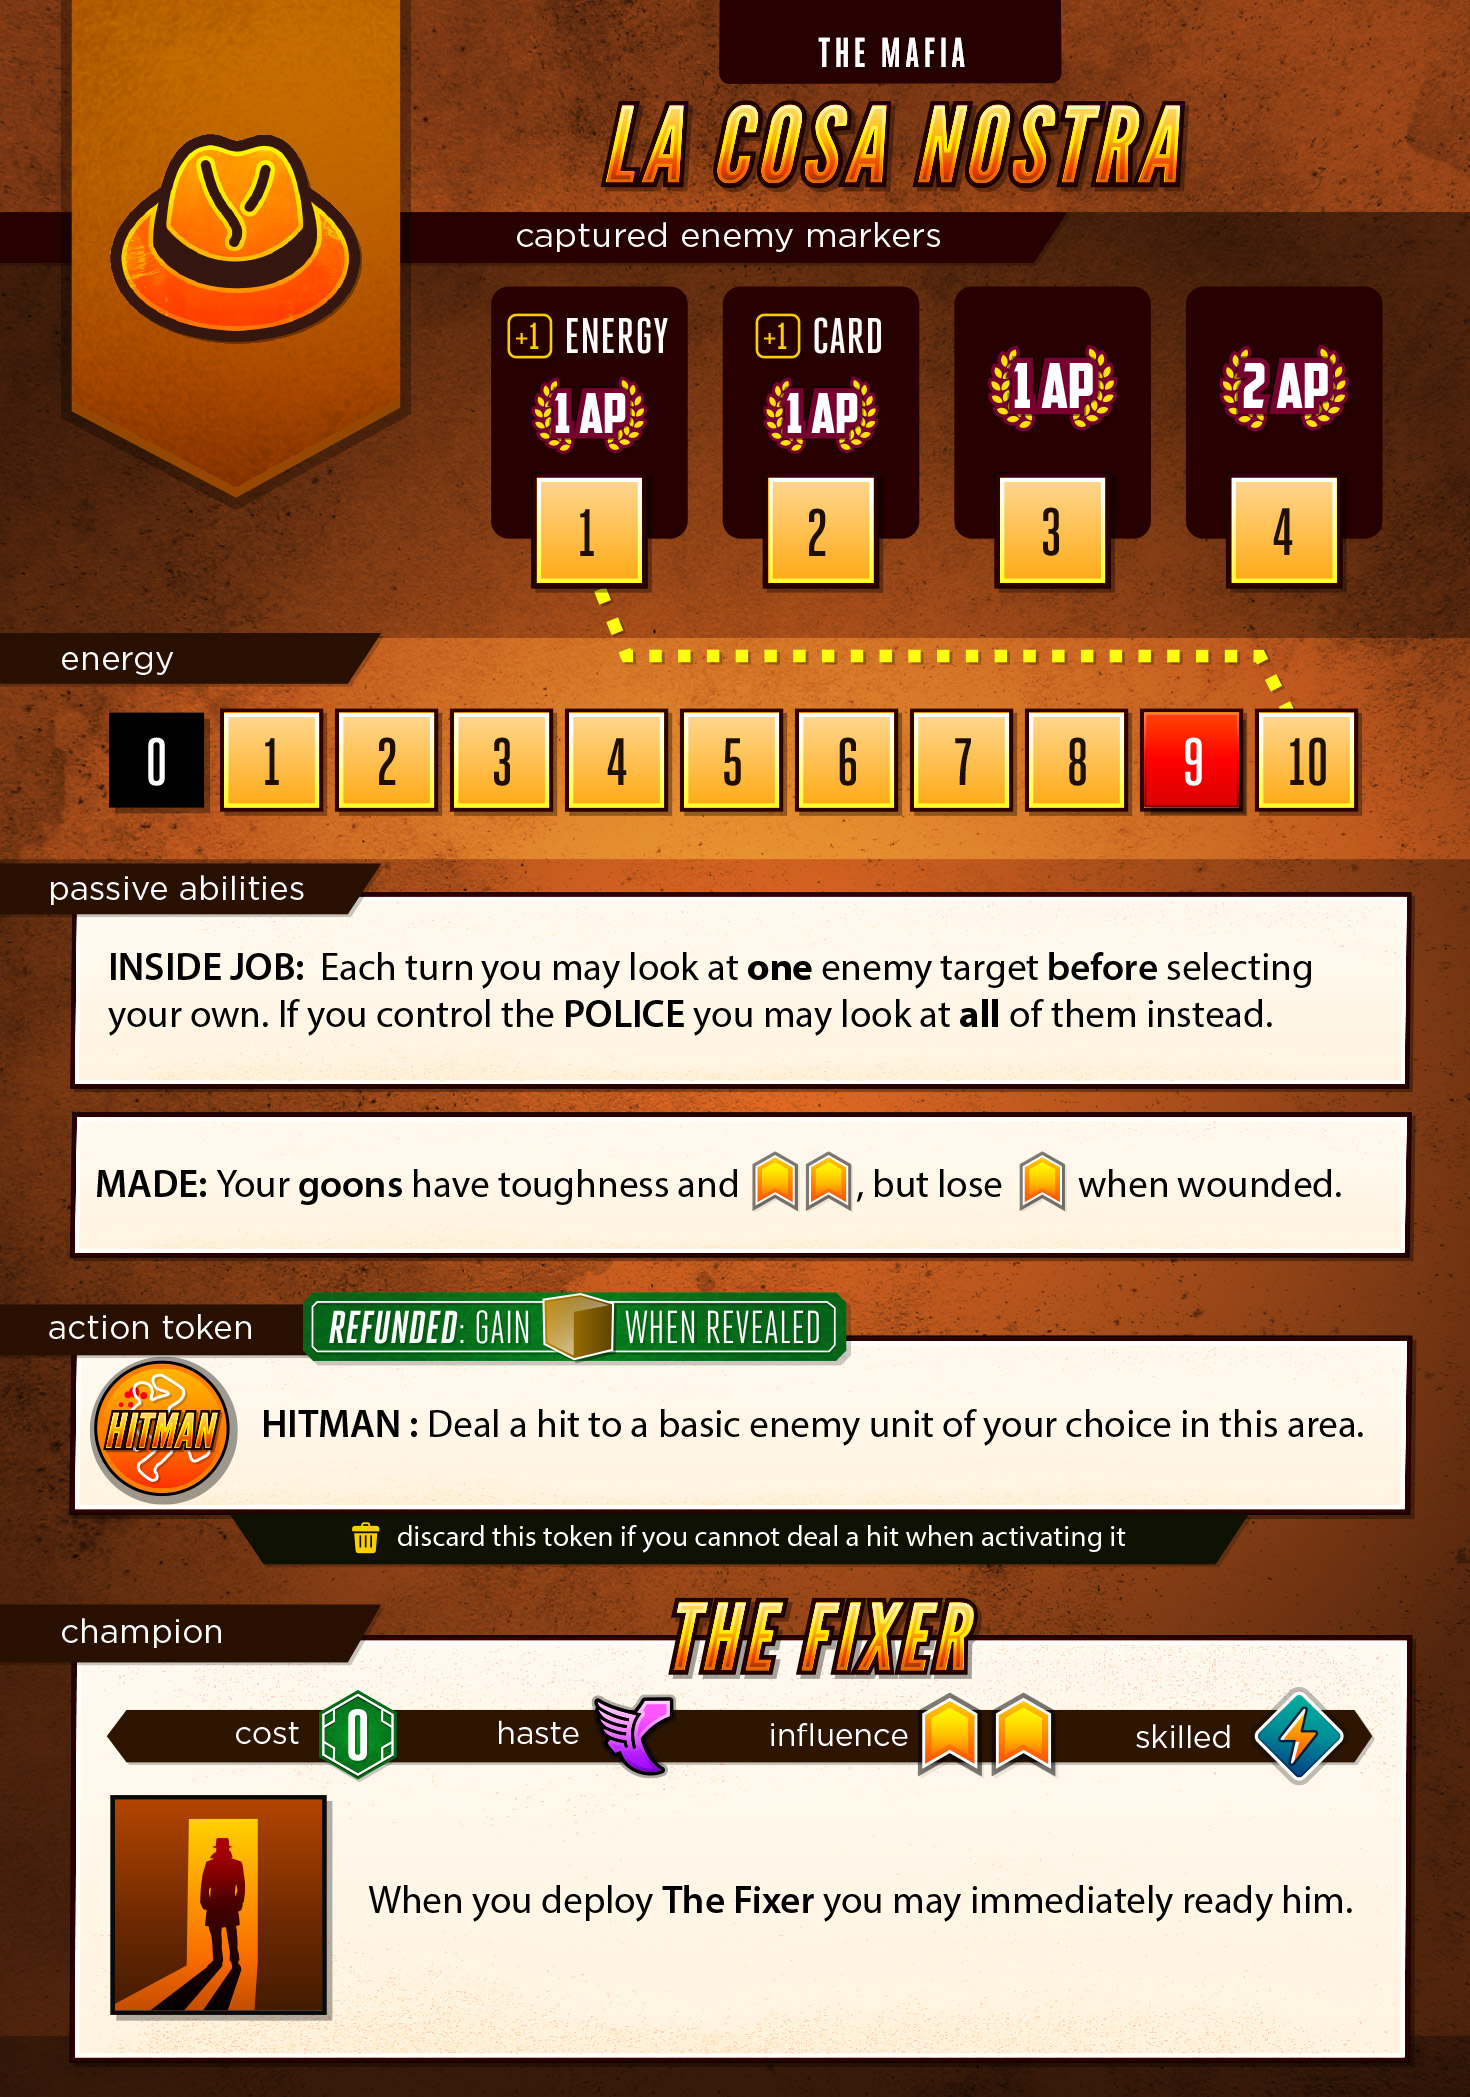
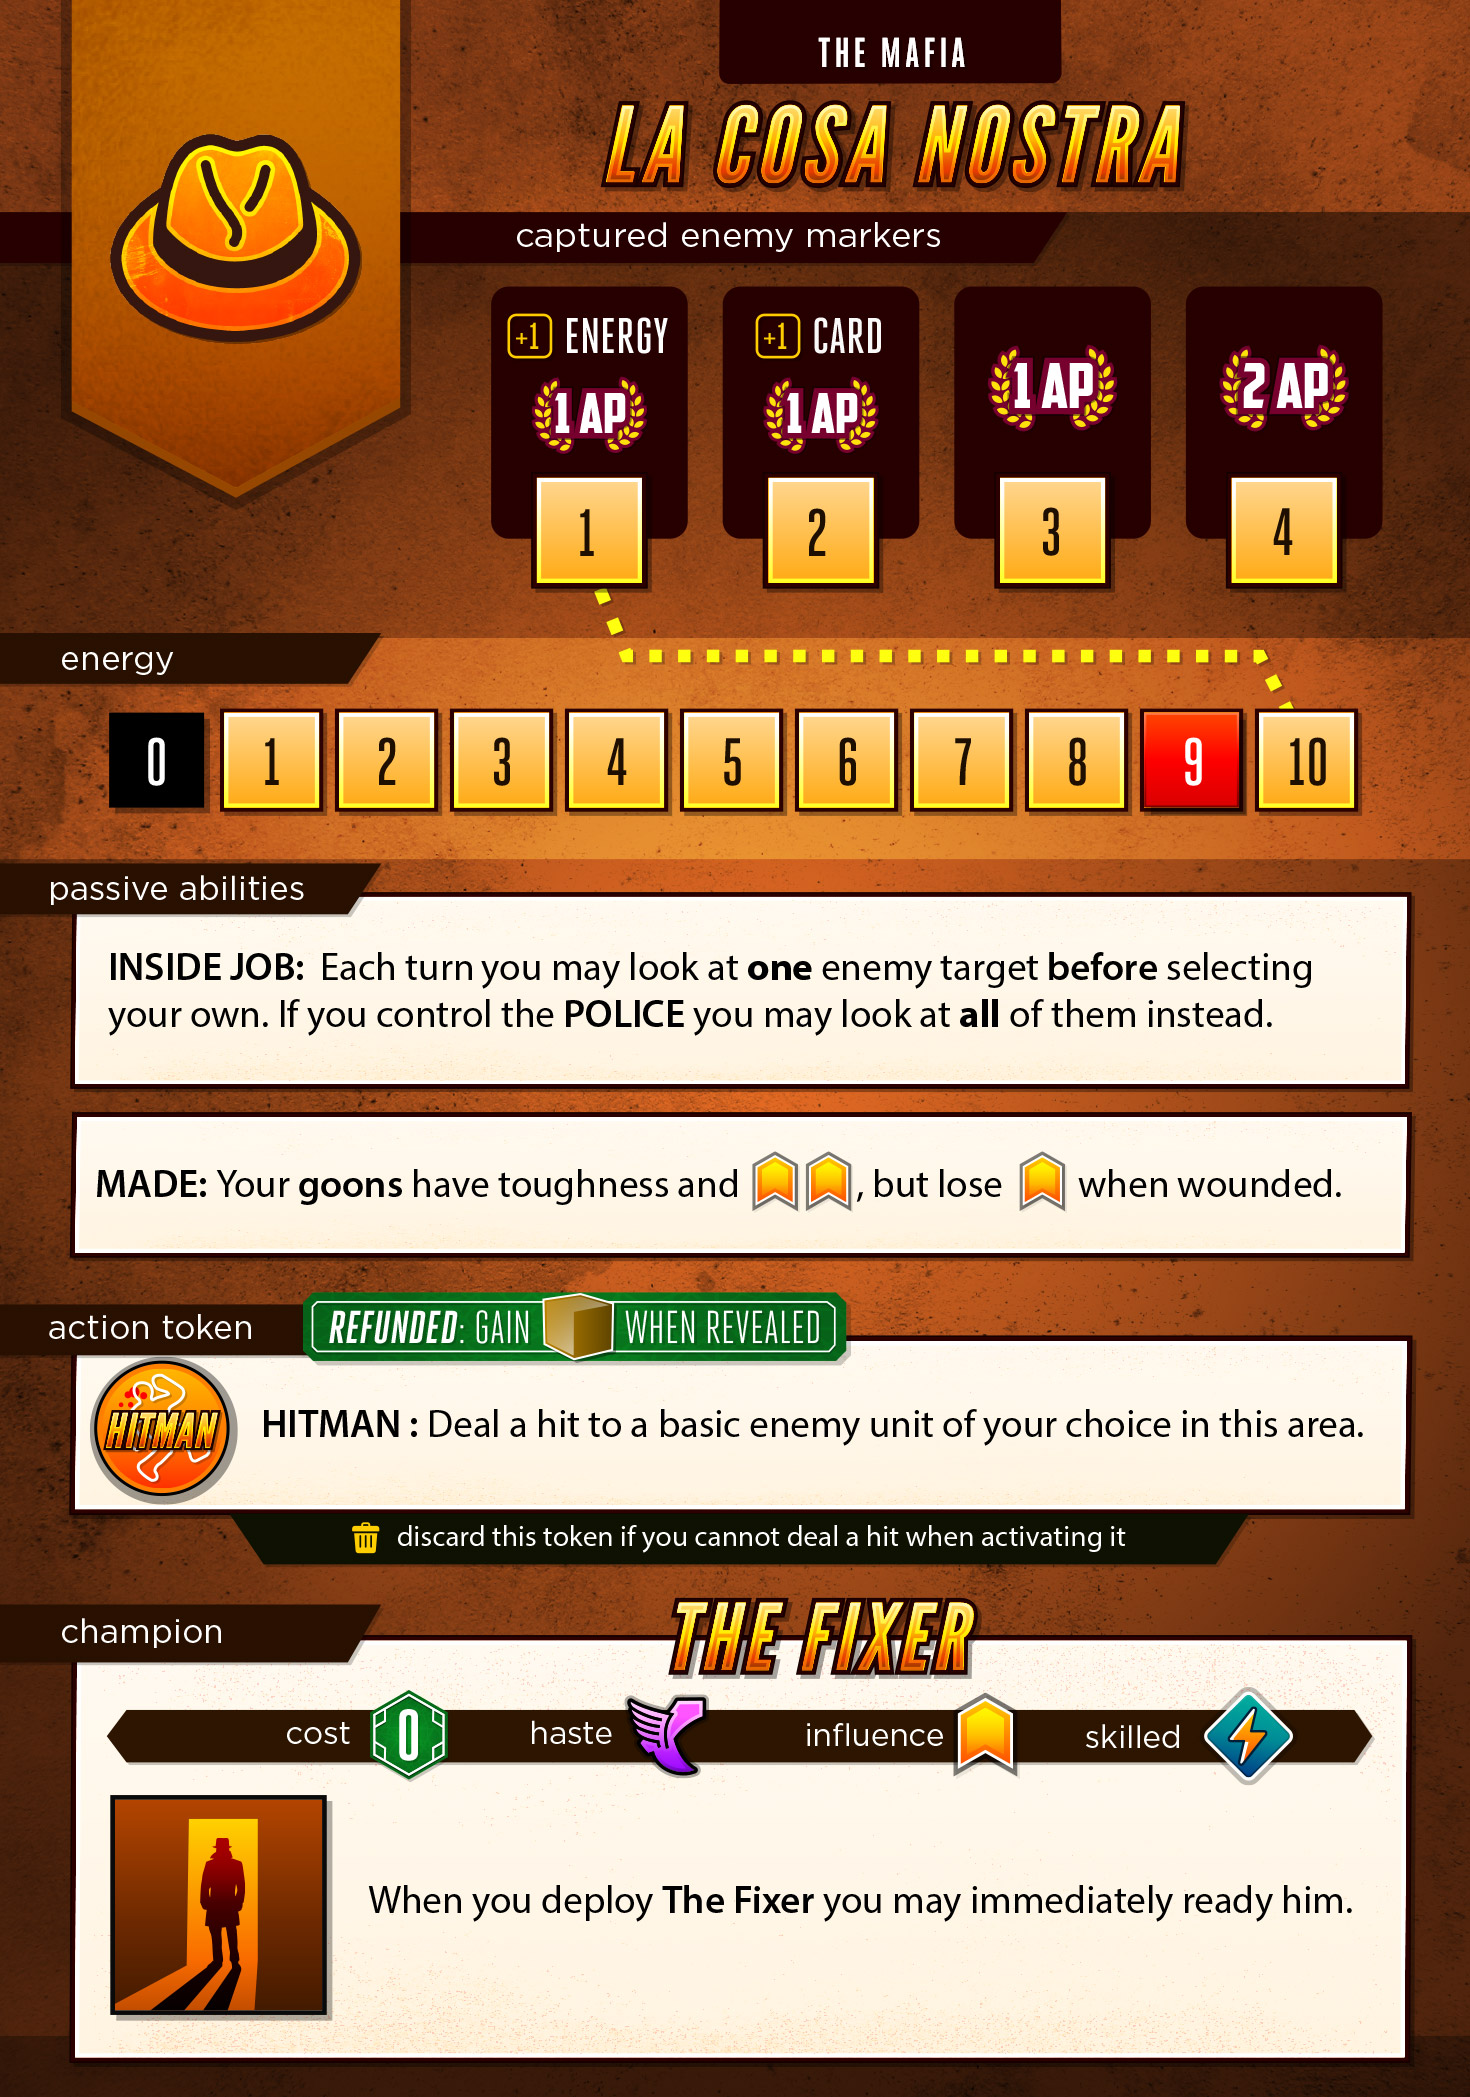
MAFIA: Fixer down to 1 influence

Changed region(s): [[0.5204, 0.8059, 0.9184, 0.8679], [0.3367, 0.8059, 0.4898, 0.8679], [0.1837, 0.8059, 0.3061, 0.8679]]

diff --git a/server/classes/factions/Mafia.js b/server/classes/factions/Mafia.js
@@ -52,7 +52,7 @@ class Mafia extends Faction {
                 onDeploy : 'fixerDeploy',
                 onUnitKilled: 'fixerKilled',
                 basic: false,
-                influence: 2,
+                influence: 1,
                 attack: [],
                 cost: 0,
                 killed : false,
